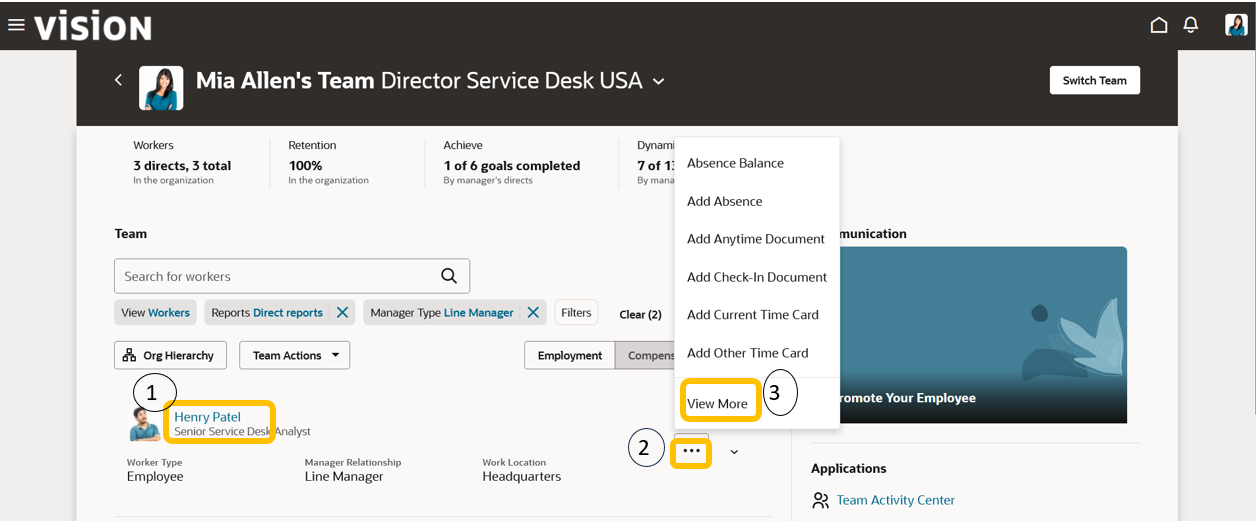
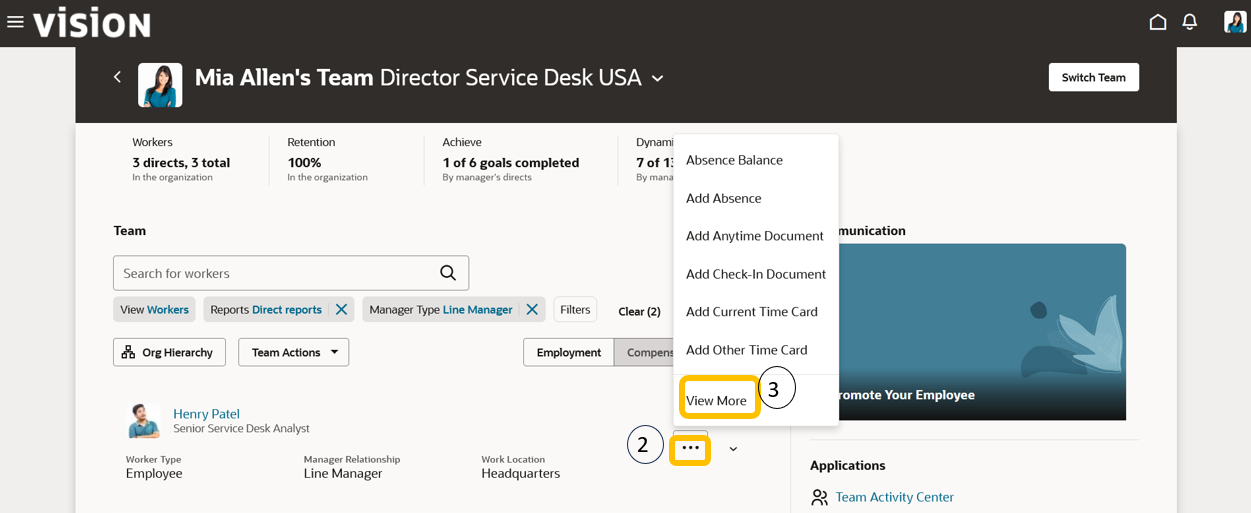
Commit WMS ID 11521 (#400)
Commit

diff --git a/apps-cloud-adventure-hcm/05-your-team-page/your-team.md b/apps-cloud-adventure-hcm/05-your-team-page/your-team.md
@@ -16,57 +16,60 @@ In this activity, you will:
 
 
 ## Task 1: Your Team 
+The **Team Activity Center** provides managers with the most critical insights, alerts, and tasks for their team as well as the tools to act on them at their fingertips.
 
-
-1. The **Team Activity Center**gives managers the most critical insights, alerts, and tasks for their team as well as the tools to act on them at their fingertips. 
-
-
-    > Navigate to **My Team** – **Team Activity Center** 
+1. Navigate to **My Team** – **Team Activity Center** 
 
 
     ![My Team](images\myteampage.png)
 
-2. Click on a workers' name.
+2. Choose an employee.
 
-3. Select **View more** to open the various tasks that a manager can orchestrate directly from this all in one page. Explore the tasks that are available.
+3. Then click the **3 dots** at the right of thier name.
 
-    ![My Team](images\myteampage2.png)
+4. Select **View more** to open the various tasks that a manager can orchestrate directly from this all in one page. Take a moment to explore the tasks that are available.
 
-Move to **Task 2 of Lab 6: Your Team Page** in your **Cloud Adventure Activity Guide**
+    ![My Team](images\myteampage5.png)
+
+When you have finished exploring move to **Task 2**
 
 
 ## Task 2: Promote 
-Let's process a promotion for the employee. Continue working from the Team Activity Center. *(If you ventured off.  Navigation = My Team -> Team Activity Center)*
+Process a promotion for an employee. Continue working from the Team Activity Center. *(If you ventured off, navigate to My Team then click the Team Activity Center tile)*
 
-1. Click the** 3 dots** at the right.
+1. Choose an employee.
 
-2. Select **View more** from the available list of actions.
+2. Then click the **3 dots** at the right of their name.
+
+3. Select **View more** from the available list of actions.
 
     ![My Team](images\myteampage2.png)
 
-3. Type **Promote** in the search bar. Click **Promote**
+4. Type **Promote** in the search bar. Click **Promote**
 
     ![My Team](images\myteampage3.png)
 
-4. Under the question **‘Info to include’** - Toggle the Salary button and then click **continue**
+5. Under the **‘Info to include’** section - Toggle the **Salary** button and then click **continue**
 
     ![My Team](images\myteampage4.png)
 
-5. In the when and why section Enter **today's date** as the effective date for the promotion *(The what's the way to promote reason will auto populate)* and Click **Continue**. 
+6. In the **‘When and why’** section enter **today's date** as the effective date for the promotion *(What's the way to promote will auto populate)*. Click **Continue**. 
 
-6. In the Position override section DO NOT MAKE ANY CHANGES.  Click **Continue**.
+    ![Compensation](images\myteamcompensationpage3.png)
 
-7. In the Assignment section **DO NOT MAKE ANY CHANGES**  Click **Continue**.
+7. In the Position override section DO NOT MAKE ANY CHANGES.  Click **Continue**.
 
-    ![Compensation](images\myteamcompensationpage2.png)
+8. In the Assignment section DO NOT MAKE ANY CHANGES.  Click **Continue**.
 
-8. In the next section of the transaction labeled *2 Promotion*, do not change any information. Please click the Continue Button to move forward with the transaction.  
+9. In the **‘Salary’** section enter a salary adjustment amount or adjustment percent *(to see an example of the guardrails for entry - enter a salary adjustment greater than 60%)*
 
-9. In the Salary secion Enter a salary adjustment amount or adjustment percent *(to see an example of the guardrails for entry - enter a salary adjustment greater than 60%)*
+   ![Compensation](images\myteamcompensationpage2.png)
 
 10. To complete the transaction Click **Submit**
 
 **Congratulations you just promoted your employee!**
+
+> Click the **‘Home’** Icon
 
  
 
